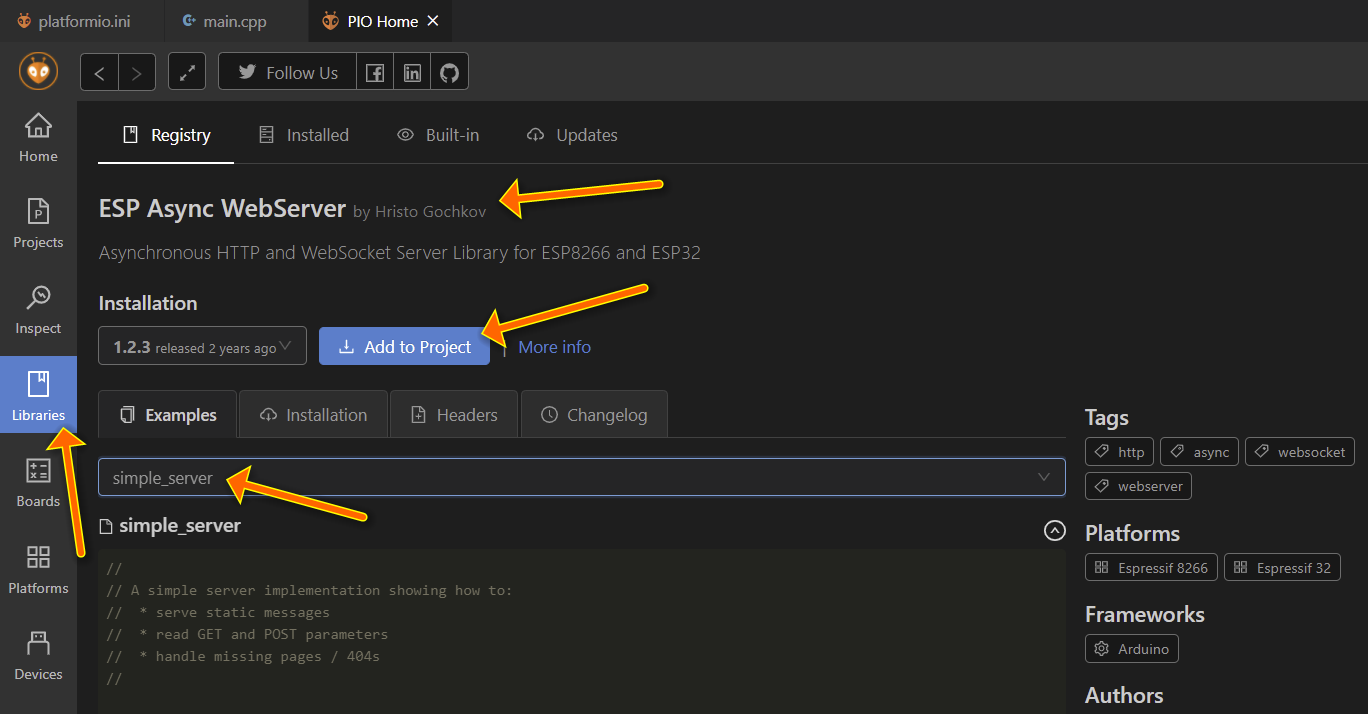
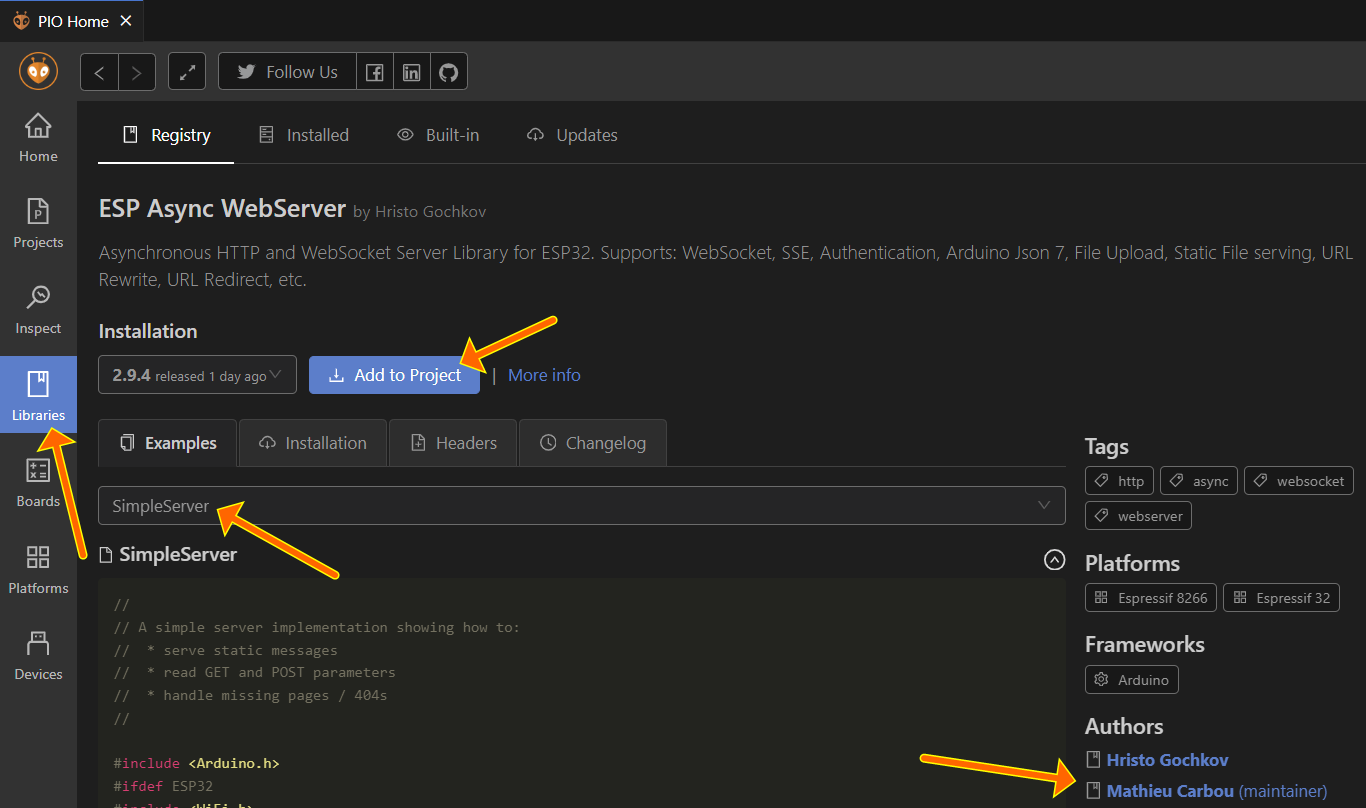
Update web server references in documentation

diff --git a/EspWebServer/README.md b/EspWebServer/README.md
@@ -20,16 +20,17 @@ Webserver"* library through PIO Home.\
 Note: do not install the version with "-esphome" in the name – these
 are variants for a home automation system. We need:
 
-- **ESP Async WebServer** by Hristo Gochkov:\
-    <https://github.com/me-no-dev/ESPAsyncWebServer>
+- **ESP Async WebServer** by Hristo Gochkov (yubox-node-org, Mathieu Carbou):\
+    <https://github.com/mathieucarbou/ESPAsyncWebServer>
 
 - **AsyncTSP** (dependency of the webserver, automatically
     installed):\
-    <https://github.com/me-no-dev/AsyncTCP>
+    <https://github.com/mathieucarbou/AsyncTCP>
 
 Search for the "ESP Async WebServer" in the Registry-tab of Libraries.
 Then click on "Add to Project" and select your project from the
-drop-down list.
+drop-down list. Make sure you choose the more
+recent version maintained by mathieucarbou / yubox-node-org.
 
 ![Adding the \"ESP Async WebServer\" library and
 example.](./media/adding-esp-async-webserver.png)

diff --git a/ESP32-WebSockets/README.md b/ESP32-WebSockets/README.md
@@ -32,12 +32,14 @@ code accordingly.
 ## Project Setup
 
 Create a new project with Visual Studio Code and
-Platform.IO. Add the "ESP Async WebServer" by Hristo Gochkov. See the [ESP32 Web Server chapter](../ESPWebServer/README.md) for detailed instructions.
+Platform.IO. Add the "ESP Async WebServer" by Hristo Gochkov. See the
+[ESP32 Web Server chapter](../ESPWebServer/README.md) for detailed instructions.
+Make sure you choose the more recent version maintained by mathieucarbou / yubox-node-org.
 
 The library also has more information about handling WebSockets, but it
 doesn't contain a simple example that only includes the functionality we
 require for sending & receiving web socket messages:
-<https://github.com/me-no-dev/ESPAsyncWebServer#async-websocket-plugin>
+<https://github.com/yubox-node-org/ESPAsyncWebServer#async-websocket-plugin>
 
 ## Wiring
 
